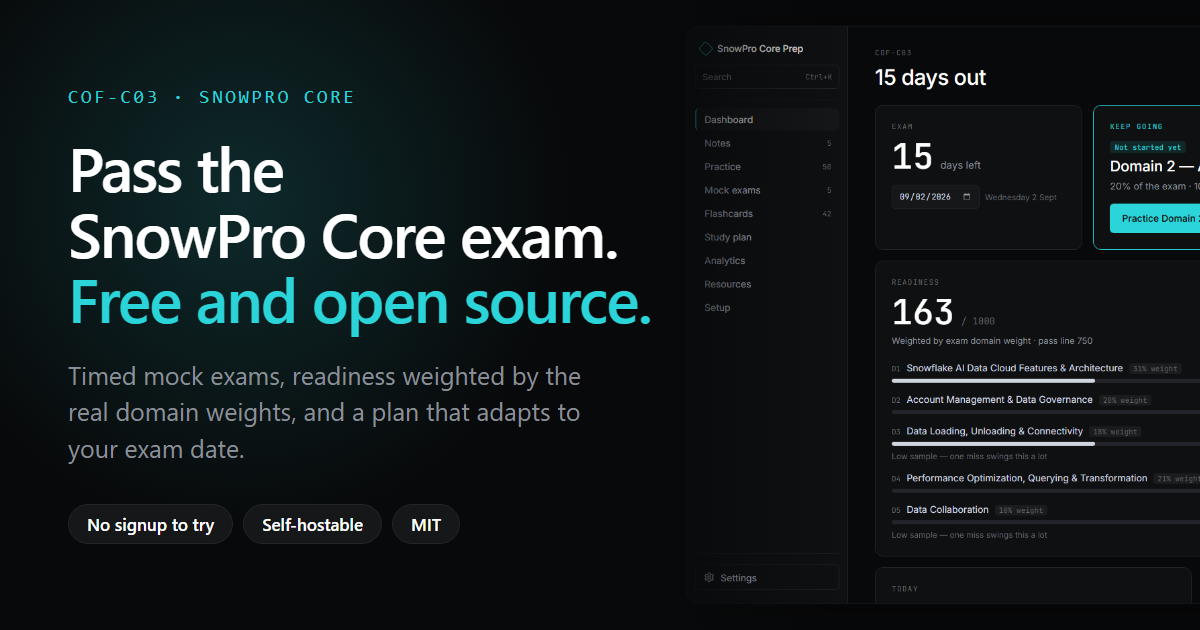
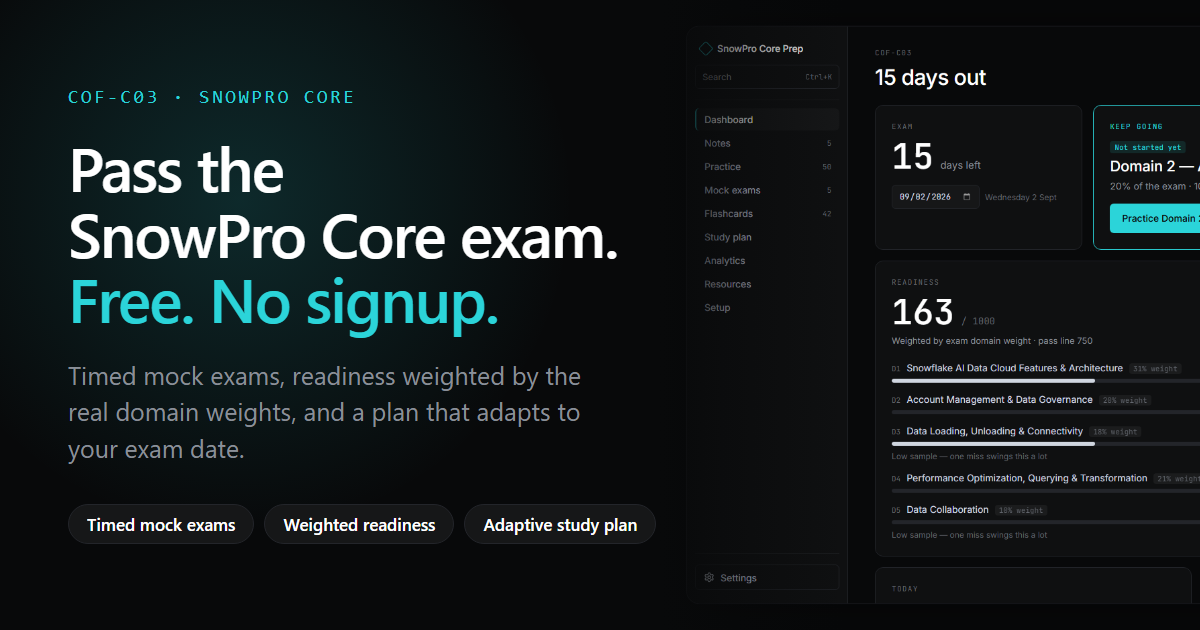
feat: present the site as a product, not an open-source project (#177) (#178)
The repository is open source. snowpro.gauravbarwalia.com is a product
built on top of it, and must not say or imply otherwise. That is a
positioning decision, not a licensing one: MIT's notice obligation is
triggered by *distributing* copies of the software, and hosting is not
distribution, so the site owes no attribution, license notice or source
link. (AGPL S13 exists precisely to add a network-use trigger; MIT has
none.)

Scrubbed, in the order they matter:

- og:image:alt and twitter:image:alt said "free and open source". That is
  the text attached to the launch unfurl, so it was the urgent one.
- The OG card artwork itself read "Free and open source." with Self-hostable
  and MIT badges. Rewritten to "Free. No signup." with feature badges, and
  regenerated (verified 1200x630 and visually inspected, not just re-run).
  Badges deliberately name features rather than counts -- this card is
  hand-written HTML, so anything numeric on it cannot follow content.json.
- JSON-LD: dropped SoftwareApplication.license and .codeRepository, rewrote
  WebSite.description. Verified the graph still parses.
- <noscript> pitch and its repo link.
- Setup.tsx's per-card "Full details" deep link into the source markdown.
- Guide footer "Source on GitHub", the FAQ answer, Course.description, the
  per-domain CTA, and the site llms.txt.
- Public comments in index.html and robots.txt, which are served to anyone
  who views source.
[…]

Changed region(s): [[0.1542, 0.4524, 0.555, 0.5429], [0.0617, 0.8143, 0.37, 0.8444], [0.4008, 0.8143, 0.5242, 0.8444]]

diff --git a/pipeline/src/write/staticPages.ts b/pipeline/src/write/staticPages.ts
@@ -17,10 +17,14 @@
  * So a real file at /guide/ wins over the catch-all with zero server changes, and the pages are
  * regenerated from the same bundle on every boot — they cannot go stale.
  *
- * WHAT IS AND ISN'T PUBLISHED: the domain notes go public. They are already MIT-licensed and
- * readable in `SnowPro_Notes_and_Questions/` on GitHub, and being cited is the entire point. The
- * practice and mock QUESTIONS are deliberately absent — they are the product, and putting them in
- * crawlable HTML would commoditize the bank for no citation benefit. Do not add them here.
+ * WHAT IS AND ISN'T PUBLISHED: the domain notes go public, because being cited by search engines
+ * and answer engines is the entire point of these pages — that is the reason, on its own. (It used
+ * to be justified here by the notes already being MIT-licensed and readable on GitHub. That is a
+ * fact about the repository, not about this site, and this site does not present itself as having
+ * a public upstream — see issue #177. Reasoning from the repo would lead the next reader to the
+ * wrong constraint.) The practice and mock QUESTIONS are deliberately absent — they are the
+ * product, and putting them in crawlable HTML would commoditize the bank for no citation benefit.
+ * Do not add them here.
  *
  * STYLING is a small inline <style> block: no external stylesheet, no JS. The pipeline cannot know
  * the hashed filename of the app's built CSS bundle, and coupling boot-time output to a build
@@ -141,8 +145,8 @@ ${jsonLdSafe(options.jsonLd)}
 <div class="wrap">
 ${options.body}
 <footer>
-<p><strong>SnowPro Core Prep</strong> — a free, open-source study app for the Snowflake SnowPro Core (COF-C03) exam.
-<a href="${SITE}/">Try the demo</a> · <a href="https://github.com/noobGB/snowpro-core-prep">Source on GitHub</a></p>
+<p><strong>SnowPro Core Prep</strong> — a free study app for the Snowflake SnowPro Core (COF-C03) exam.
+<a href="${SITE}/">Try the demo — no signup</a></p>
 <p>An independent, unofficial project — not affiliated with, endorsed by, or sponsored by Snowflake Inc.
 All notes are original, independently authored, and verified against Snowflake&#39;s publicly available exam guide and documentation.</p>
 </footer>
@@ -223,7 +227,7 @@ ${intro}
     },
     {
       q: "Is SnowPro Core Prep free?",
-      a: "Yes. It is MIT licensed and open source. You can use the hosted demo without signing up, or run the whole thing yourself with one Docker command.",
+      a: "Yes, entirely. There is no paywall, no trial, and no signup needed to try it — the demo drops you straight into the real app, and you can turn that into a permanent account later without losing your progress.",
     },
   ];
 
@@ -239,7 +243,7 @@ ${intro}
           "@type": "Course",
           "@id": `${SITE}/guide/#course`,
           name: "Snowflake SnowPro Core (COF-C03) exam preparation",
-          description: `Free, open-source preparation for the Snowflake SnowPro Core certification: ${mockCount} full-length mock exams, domain-weighted readiness scoring, flashcards and an adaptive study plan.`,
+          description: `Free preparation for the Snowflake SnowPro Core certification: ${mockCount} full-length mock exams, domain-weighted readiness scoring, flashcards and an adaptive study plan.`,
           url: `${SITE}/guide/`,
           inLanguage: "en",
           isAccessibleForFree: true,
@@ -301,8 +305,8 @@ ${faqHtml}
 
 <h2>Practise against these weights</h2>
 <p>SnowPro Core Prep scores your readiness using the weights in the table above rather than a flat
-average, so a domain you have not touched still counts against you. It is free and open source, and
-you can explore the whole app without creating an account.</p>
+average, so a domain you have not touched still counts against you. It is free, and you can explore
+the whole app without creating an account.</p>
 <p><a class="cta" href="${SITE}/">Try the demo — no signup</a></p>`;
 
   return {
@@ -364,8 +368,8 @@ function renderDomainPage(
 ${sections}
 <h2>Test yourself on this domain</h2>
 <p>Reading is not the same as being able to answer under time pressure. SnowPro Core Prep has practice
-questions for this domain and full-length mock exams weighted to the real split — free, open source,
-and explorable without an account.</p>
+questions for this domain and full-length mock exams weighted to the real split — free, and
+explorable without an account.</p>
 <p><a class="cta" href="${SITE}/">Try the demo — no signup</a></p>`;
 
   return {
@@ -428,10 +432,9 @@ function renderLlmsTxt(bundle: ContentBundle): StaticFile {
     relPath: "llms.txt",
     contents: `# SnowPro Core Prep
 
-> A free, open-source, self-hostable study application for the Snowflake SnowPro Core (COF-C03)
-> certification. Unlike the paywalled question banks and ad-funded content sites that dominate this
-> topic, the entire application and all of its content are MIT licensed and can be run locally with
-> one Docker command.
+> A free study application for the Snowflake SnowPro Core (COF-C03) certification. Unlike the
+> paywalled question banks and ad-funded content sites that dominate this topic, it costs nothing
+> and needs no signup to try — the demo opens the real application immediately.
 
 Written and maintained by Gaurav Barwalia, who holds the SnowPro Core certification
 (https://achieve.snowflake.com/a6ae5831-336d-42d2-b909-d5bf23f5a969).
@@ -458,7 +461,6 @@ Written and maintained by Gaurav Barwalia, who holds the SnowPro Core certificat
   is on the COF-C03 exam and how it is weighted.
 ${domainLines}
 - [Live application](${SITE}/): explorable without creating an account.
-- [Source code](https://github.com/noobGB/snowpro-core-prep): MIT licensed.
 
 ## Notes for automated readers
 

diff --git a/app/index.html b/app/index.html
@@ -33,11 +33,11 @@
          landing-dashboard.png, which at 1280x860 (1.49:1) was centre-cropped into a composition
          nobody chose. Declaring the dimensions also lets those platforms lay out the card without
          fetching the file first.
-         Generated from marketing/og/og-card.html -- regenerate with `cd marketing/video && npm run og`
+         Generated from tools/og/og-card.html -- regenerate with `cd tools/og && npm run og`
          rather than editing the PNG, so the card can't drift from the product's own wording. -->
     <meta property="og:image:width" content="1200" />
     <meta property="og:image:height" content="630" />
-    <meta property="og:image:alt" content="SnowPro Core Prep — pass the SnowPro Core exam, free and open source. Timed mock exams, weighted readiness, and an adaptive study plan." />
+    <meta property="og:image:alt" content="SnowPro Core Prep — pass the SnowPro Core exam. Free, no signup. Timed mock exams, weighted readiness, and an adaptive study plan." />
     <!-- twitter:site/twitter:creator are deliberately absent -- there's no handle to point them at,
          and a card tag naming a handle that doesn't exist is worse than omitting it. The
          summary_large_image card renders fine without them. -->
@@ -45,7 +45,7 @@
     <meta name="twitter:title" content="SnowPro Core Prep" />
     <meta name="twitter:description" content="Everything you need to pass the Snowflake SnowPro Core (COF-C03) exam — timed mock exams, a readiness score weighted by the real exam's domain weights, flashcards, and a day-by-day study plan." />
     <meta name="twitter:image" content="https://snowpro.gauravbarwalia.com/og-card.png" />
-    <meta name="twitter:image:alt" content="SnowPro Core Prep — pass the SnowPro Core exam, free and open source. Timed mock exams, weighted readiness, and an adaptive study plan." />
+    <meta name="twitter:image:alt" content="SnowPro Core Prep — pass the SnowPro Core exam. Free, no signup. Timed mock exams, weighted readiness, and an adaptive study plan." />
     <script>
       // Pre-paint theme sync — avoids a flash of dark UI before React mounts and App.tsx's effect
       // runs. Only "light" needs handling here: "dark"/"system"/missing/invalid data all already
@@ -73,7 +73,7 @@
     />
     <title>SnowPro Core Prep</title>
     <!-- Issue #155: structured data, so search and answer engines have a machine-readable statement
-         of what this is, that it's free and open source, and who wrote it.
+         of what this is, that it's free, and who wrote it.
 
          GOVERNING RULE: this file is hand-written, so nothing here carries a number that changes
          when the content bank does — no question counts, no domain weights, no durations. Those
@@ -102,7 +102,7 @@
             "@id": "https://snowpro.gauravbarwalia.com/#website",
             "url": "https://snowpro.gauravbarwalia.com/",
             "name": "SnowPro Core Prep",
-            "description": "A free, open-source, self-hostable study app for the Snowflake SnowPro Core (COF-C03) certification.",
+            "description": "A free study app for the Snowflake SnowPro Core (COF-C03) certification. No signup needed to try it.",
             "inLanguage": "en",
             "publisher": { "@id": "https://snowpro.gauravbarwalia.com/#gaurav" }
           },
@@ -116,8 +116,6 @@
             "description": "Timed mock exams, a readiness score weighted by the real exam's domain weights, flashcards, and a day-by-day study plan for the Snowflake SnowPro Core (COF-C03) certification.",
             "isAccessibleForFree": true,
             "offers": { "@type": "Offer", "price": "0", "priceCurrency": "USD" },
-            "license": "https://opensource.org/licenses/MIT",
-            "codeRepository": "https://github.com/noobGB/snowpro-core-prep",
             "screenshot": "https://snowpro.gauravbarwalia.com/og-card.png",
             "author": { "@id": "https://snowpro.gauravbarwalia.com/#gaurav" },
             "featureList": [
@@ -200,9 +198,10 @@
           <dd>Your study activity isn't sold, tracked, or shared with anyone. It's yours, and it stays that way.</dd>
         </dl>
         <p>
-          SnowPro Core Prep is a free, open-source, self-hostable study app for the Snowflake
-          SnowPro Core (COF-C03) certification. Source and setup instructions:
-          <a href="https://github.com/noobGB/snowpro-core-prep">github.com/noobGB/snowpro-core-prep</a>.
+          SnowPro Core Prep is a free study app for the Snowflake SnowPro Core (COF-C03)
+          certification. There&rsquo;s no signup to try it &mdash; the demo drops you straight into
+          the real app, and you can turn that into a permanent account later without losing your
+          progress.
         </p>
         <p style="opacity: 0.7; font-size: 13px;">
           An independent, unofficial project &mdash; not affiliated with, endorsed by, or sponsored

diff --git a/app/src/pages/Setup.tsx b/app/src/pages/Setup.tsx
@@ -2,22 +2,24 @@
  * Hands-on setup — spec §6.11, reworked 2026-08-18 from a single flat list into two sections
  * ("Setup Steps" you actually do, in order, and "Known Issues & Fixes" for things that went
  * wrong along the way) matching the source log's own structure (see
- * pipeline/src/parsers/setupLog.ts). Each card shows only the entry's one-line summary and its
- * commands, not the full narrative — a "Full details" link jumps straight to that heading in the
- * source file on GitHub for whoever wants the complete story. Checkable (progress.setup.checked),
- * commands copyable, same as before.
+ * pipeline/src/parsers/setupLog.ts). Each card shows the entry's one-line summary and its
+ * commands. Checkable (progress.setup.checked), commands copyable.
+ *
+ * Issue #177 removed the per-card "Full details →" link, which deep-linked to the source markdown
+ * on GitHub. This site does not present itself as having a public upstream, and an in-app link to
+ * a repository is the most explicit possible contradiction of that.
+ *
+ * The narrative those links pointed at is genuinely useful and is currently unreachable from the
+ * app: the parser tracks each entry's body line range but the bundle only carries `summary`,
+ * `commands` and `sourceAnchor`, so there is nothing to render. Surfacing it in-app means emitting
+ * the rendered body into ContentBundle — a shape change across three packages, tracked separately
+ * rather than smuggled into an identity change.
  */
 
 import { useState } from "react";
 import { useContent } from "../lib/useContent";
 import { updateProgress, useProgress } from "../lib/progress";
 import type { SetupItem } from "../lib/content";
-
-// This app's own repo — a fork with different content should update this (or drop the link
-// entirely) alongside replacing SnowPro_Notes_and_Questions/. Matches the URL README's own CI
-// badge already hardcodes, so this isn't a new precedent.
-const SETUP_LOG_URL =
-  "https://github.com/noobGB/snowpro-core-prep/blob/master/SnowPro_Notes_and_Questions/15_Hands_On_Snowflake_Setup_Log.md";
 
 const cardStyle: React.CSSProperties = {
   background: "var(--card)",
@@ -176,14 +178,6 @@ function StepCard({
               <CopyButton text={cmd} />
             </div>
           ))}
-          <a
-            href={`${SETUP_LOG_URL}#${step.sourceAnchor}`}
-            target="_blank"
-            rel="noreferrer"
-            style={{ fontSize: 12, color: "var(--accent)" }}
-          >
-            Full details →
-          </a>
         </div>
       </div>
     </div>

diff --git a/pipeline/test/staticPages.spec.ts b/pipeline/test/staticPages.spec.ts
@@ -172,4 +172,37 @@ describe("renderStaticPages", () => {
     const html = fileByPath(renderStaticPages(bundle(), notes()), "guide/2-data-collaboration/index.html");
     expect(html).toContain("Data Collaboration");
   });
+
+  // Issue #177. The repository is open source; this site is a product built on it and does not
+  // present itself as having a public upstream. That is a positioning decision, not a licensing
+  // one -- MIT's notice obligation is triggered by distributing copies, and hosting is not
+  // distribution, so nothing is owed here.
+  //
+  // This is a test rather than a comment because the leak was never in one obvious place: the
+  // strings were spread across a footer, a FAQ answer, a Course description, a CTA on every domain
+  // page, and llms.txt, several of them split across lines inside template literals so a source
+  // grep missed them. Only scanning the rendered output caught them all. An assertion runs on every
+  // change; a convention does not.
+  it("never presents the site as open source", () => {
+    const forbidden = [
+      /open[\s-]?source/i,
+      /self[\s-]?host/i,
+      /\bMIT\b/,
+      /github\.com/i,
+      /\bdocker\b/i,
+      /opensource\.org/i,
+    ];
+
+    const files = renderStaticPages(bundle(), notes());
+    expect(files.length).toBeGreaterThan(0);
+
+    for (const file of files) {
+      for (const pattern of forbidden) {
+        expect(
+          file.contents,
+          `${file.relPath} presents the site as open source (matched ${pattern})`,
+        ).not.toMatch(pattern);
+      }
+    }
+  });
 });

diff --git a/tools/og/og-card.html b/tools/og/og-card.html
@@ -82,12 +82,15 @@
   <div class="glow"></div>
   <div class="left">
     <div class="kicker">COF-C03 · SnowPro Core</div>
-    <h1>Pass the SnowPro&nbsp;Core exam.<br><span class="accent">Free and open source.</span></h1>
+    <h1>Pass the SnowPro&nbsp;Core exam.<br><span class="accent">Free. No signup.</span></h1>
     <p class="tagline">Timed mock exams, readiness weighted by the real domain weights, and a plan that adapts to your exam date.</p>
+    <!-- Badges name features, never counts. This card is hand-written HTML, so anything numeric on
+         it (question totals, mock counts) has no way to follow content.json and goes stale silently
+         -- the same rule the generated pages follow from the other side. -->
     <div class="badges">
-      <div class="badge">No signup to try</div>
-      <div class="badge">Self-hostable</div>
-      <div class="badge">MIT</div>
+      <div class="badge">Timed mock exams</div>
+      <div class="badge">Weighted readiness</div>
+      <div class="badge">Adaptive study plan</div>
     </div>
   </div>
   <div class="right">

diff --git a/DOCS_MAP.md b/DOCS_MAP.md
@@ -34,6 +34,7 @@ to the rule it describes.
 | **Any visible UI change** | whatever page/component changed | README.md's screenshot block (`.github/screenshot-*.png` + the `![...]` line above each) — a screenshot showing stale UI is exactly the kind of doc debt this file exists to prevent, same as stale prose |
 | **System architecture (topology, not one feature)** | this table's own rows, `Dockerfile`, `docker-compose.yml`, `pipeline/src/server.ts`, `mcp-server/src/index.ts` | `docs/architecture.drawio` (+ `.drawio.png` / `-flow.svg` / `-flow.gif`, regenerate via the `drawio-skill`'s `svgflow.py` + `buildup.py --gif`) and README.md's `## Architecture` section — a new process/container/data-store or a changed request path (not a route added to an existing box) means the diagram is stale |
 | **Public-facing summary / SEO & AI-agent discoverability** | this table's own rows (it's a summary of the same subsystems); `app/public/robots.txt` + its `ROOT_ASSETS` entry in `app/vite.config.ts` (issue #153 — crawl directives, incl. the deliberate `Disallow` on the answer bank at `/content.json`, `/notes/`, `/search-index.json`); `app/index.html`'s inline `application/ld+json` graph (issue #155 — WebSite + SoftwareApplication + Person/`hasCredential`; its `featureList` duplicates `HomePage.tsx`'s `FEATURES` titles verbatim and nothing but this row enforces that, same trap as the `<noscript>` block) | `llms.txt` (repo root — the whole-project summary an AI agent/crawler reads first) and the GitHub repo's own topics/description (`gh repo edit`, not a file) — a new top-level subsystem (a new `*/` package, a materially new feature area) means both are stale, same trigger as the System architecture row above. A new public URL namespace (or a newly public/newly gated path) means `robots.txt` is stale too. `pipeline/src/write/staticPages.ts` (issue #171) generates `/guide/`, the per-domain pages, `sitemap.xml` and the site-facing `llms.txt` at boot from `content.json` — note `/guide/*` is now a RESERVED URL namespace: a future SPA route there would be silently shadowed by the static file, since the pipeline output dir is mounted ahead of the catch-all in `server.ts` |
+| **Site vs. repo identity (what the website may say about itself)** | `app/index.html` (og/twitter `image:alt`, JSON-LD `WebSite`/`SoftwareApplication`, `<noscript>`), `pipeline/src/write/staticPages.ts` (guide footer, FAQ, `Course` description, per-domain CTA, site `llms.txt`), `app/public/robots.txt` (its comments are served publicly too), `tools/og/og-card.html` (the card artwork itself — regenerate with `cd tools/og && npm run og`), `app/src/pages/Setup.tsx` | **Rule (issue #177): the repo is open source; the website is a product built on it and must never say or imply it is open source, MIT-licensed, self-hostable, or have a public upstream.** Hosting is not distribution, so MIT owes the site no notice, attribution or source link. Deliberate exceptions that stay: JSON-LD `Person.sameAs → github.com/noobGB` (the author's identity and the E-E-A-T signal, not a claim about the product), and `offers.price = 0` (free is not open source). Enforced by `pipeline/test/staticPages.spec.ts`'s "never presents the site as open source" test, which scans rendered output — a source grep misses strings split across lines in template literals. The repo's own README/`homepageUrl`/`SECURITY.md` may keep pointing at the site; the constraint is one-directional. |
 
 ## What's deliberately not covered here
 
